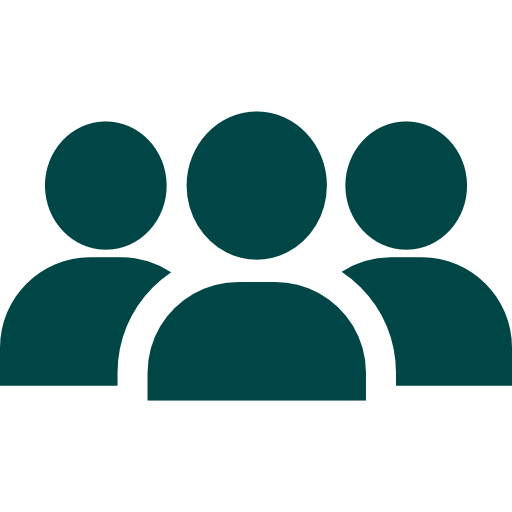
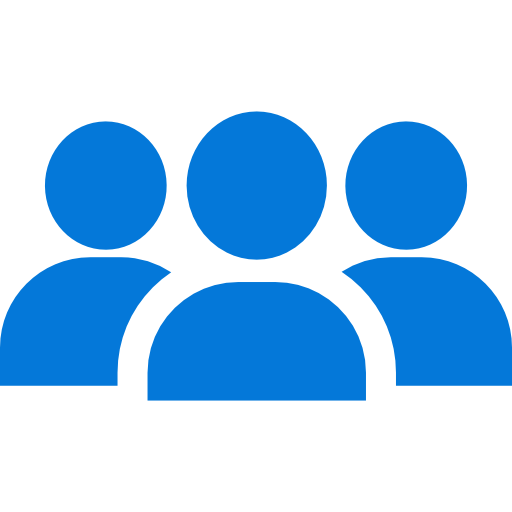
Bootstrap grid nos cards da tela home

diff --git a/pages/polos.html b/pages/polos.html
@@ -8,39 +8,41 @@
     <link href="https://cdn.jsdelivr.net/npm/bootstrap@5.2.2/dist/css/bootstrap.min.css" rel="stylesheet" integrity="sha384-Zenh87qX5JnK2Jl0vWa8Ck2rdkQ2Bzep5IDxbcnCeuOxjzrPF/et3URy9Bv1WTRi" crossorigin="anonymous">
 </head>
 
-<nav class="barraNav navbar navbar-expand-lg bg-light" class="">
-    <div class="container-fluid">
-      <a class="nav-link" href="home.html">Home</a>
-      <button class="navbar-toggler" type="button" data-bs-toggle="collapse" data-bs-target="#navbarSupportedContent" aria-controls="navbarSupportedContent" aria-expanded="false" aria-label="Toggle navigation">
-        <span class="navbar-toggler-icon"></span>
-      </button>
-      <div class="collapse navbar-collapse" id="navbarSupportedContent">
-        <ul class="navbar-nav me-auto mb-2 mb-lg-0">
-          <li class="nav-item">
-            <a class="nav-link" href="alunos.html">Alunos</a>
-          </li>
-          <li class="nav-item">
-            <a class="nav-link" href="funcionarios.html">Funcionários</a>
-          </li>
-          <li class="nav-item">
-            <a class="nav-link" href="polos.html">Polos</a>
-          </li>
-        </ul>
-        <div class="d-flex">
-            <li class="nav-item dropdown">
-                <a class="nav-link dropdown" href="#" role="button" data-bs-toggle="dropdown" aria-expanded="false">
-                  <img src="../imgs/conta/account.png" width="40px" alt="">
-                </a>
-                <ul class="dropdown-menu dropdown-menu-end">
-                  <li><a class="dropdown-item" href="#" style="color: #0478D9;">Ver Perfil</a></li>
-                  <li><hr class="dropdown-divider"></li>
-                  <li><a class="dropdown-item" href="#" style="color: #0478D9;">Sair</a></li>
-                </ul>
+<header>
+    <nav class="barraNav navbar navbar-expand-lg" style="position: fixed;z-index: 1000;width: 100%;">
+        <div class="container-fluid">
+          <a class="nav-link" href="home.html">Home</a>
+          <button class="navbar-toggler" type="button" data-bs-toggle="collapse" data-bs-target="#navbarSupportedContent" aria-controls="navbarSupportedContent" aria-expanded="false" aria-label="Toggle navigation">
+            <span class="navbar-toggler-icon"></span>
+          </button>
+          <div class="collapse navbar-collapse" id="navbarSupportedContent">
+            <ul class="navbar-nav me-auto mb-2 mb-lg-0">
+              <li class="nav-item">
+                <a class="nav-link" href="alunos.html">Alunos</a>
               </li>
-            </div>
-      </div>
-    </div>
-  </nav>
+              <li class="nav-item">
+                <a class="nav-link" href="funcionarios.html">Funcionários</a>
+              </li>
+              <li class="nav-item">
+                <a class="nav-link" href="polos.html">Polos</a>
+              </li>
+            </ul>
+            <div class="d-flex">
+                <li class="nav-item dropdown">
+                    <a class="nav-link dropdown" href="#" role="button" data-bs-toggle="dropdown" aria-expanded="false">
+                      <img src="../imgs/conta/account.png" width="40px" alt="">
+                    </a>
+                    <ul class="dropdown-menu dropdown-menu-end">
+                      <li><a class="dropdown-item" href="#" style="color: #0478D9;">Ver Perfil</a></li>
+                      <li><hr class="dropdown-divider"></li>
+                      <li><a class="dropdown-item" href="#" style="color: #0478D9;">Sair</a></li>
+                    </ul>
+                  </li>
+                </div>
+          </div>
+        </div>
+      </nav>
+</header>
 
 <body>
     <div id="divPolos">

diff --git a/pages/home.html b/pages/home.html
@@ -13,9 +13,9 @@
     <link href="https://fonts.googleapis.com/css2?family=Anton&family=Montserrat&display=swap" rel="stylesheet">
 
 </head>
-<header>
 
-    <nav class="barraNav navbar navbar-expand-lg bg-light">
+<header>
+    <nav class="barraNav navbar navbar-expand-lg" style="position: fixed;z-index: 1000;width: 100%;">
         <div class="container-fluid">
           <a class="nav-link" href="home.html">Home</a>
           <button class="navbar-toggler" type="button" data-bs-toggle="collapse" data-bs-target="#navbarSupportedContent" aria-controls="navbarSupportedContent" aria-expanded="false" aria-label="Toggle navigation">
@@ -48,27 +48,42 @@
           </div>
         </div>
       </nav>
-
 </header>
 
 <body>
-    <div style="position: relative; padding-top: 10px;">
-        <h1 style="font-size: 50px; color: #0478D9;">GCEAD</h1>
-        <div class="cardsHome">
-            <h2>Consultar alunos</h2>
-            <a href="alunos.html"><img src="../imgs/home/alunosIcon.png" alt="alunos" width="250px"></a>
+    
+    <div style="padding-top: 50px;padding-bottom: 50px;">
+        <div class="container text-center">
+            <h1>G-CEad</h1>
+            <div class="row row-cols-3 g-0">
+              <div class="col">
+                <div class="cardsHome">
+                    <h2>Polos</h2>
+                    <a href="polos.html"><img src="../imgs/home/polosAzul.png" alt="polos" width="250px"></a>
+                </div>
+              </div>
+              <div class="col">
+                <div class="cardsHome">
+                    <h2>Consultar alunos</h2>
+                    <a href="alunos.html"><img src="../imgs/home/alunosAzul.png" alt="alunos" width="250px"></a>
+                </div>
+              </div>
+              <div class="col">
+                <div class="cardsHome">
+                    <h2>Consultar funcionários</h2>
+                    <a href="funcionarios.html"><img src="../imgs/home/funcionariosAzul.png" alt="funcionarios" width="250px"></a>
+                </div>
+              </div>
+              </div>
+            </div>
         </div>
-        <div class="cardsHome">
-            <h2>Consultar boletos</h2>
-            <a href="#"><img src="../imgs/home/boletosIcon.png" alt="boletos" width="250px"></a>
-        </div>
+    
+        
+        
+        
+        
     </div>
-    <div style="position: relative; padding-bottom: 50px;">
-        <div class="cardsHome" style="width: 600px">
-            <h2>Gerenciar funcionários</h2>
-            <a href="funcionarios.html"><img src="../imgs/home/funcionariosIcon.png" alt="alunos" width="250px"></a>
-        </div>
-    </div>
+    
     
     <script src="https://cdn.jsdelivr.net/npm/bootstrap@5.2.2/dist/js/bootstrap.bundle.min.js" integrity="sha384-OERcA2EqjJCMA+/3y+gxIOqMEjwtxJY7qPCqsdltbNJuaOe923+mo//f6V8Qbsw3" crossorigin="anonymous"></script>
 

diff --git a/pages/alunos.html b/pages/alunos.html
@@ -16,8 +16,7 @@
 </head>
 
 <header>
-
-    <nav class="barraNav navbar navbar-expand-lg bg-light" class="">
+    <nav class="barraNav navbar navbar-expand-lg" style="position: fixed;z-index: 1000;width: 100%;">
         <div class="container-fluid">
           <a class="nav-link" href="home.html">Home</a>
           <button class="navbar-toggler" type="button" data-bs-toggle="collapse" data-bs-target="#navbarSupportedContent" aria-controls="navbarSupportedContent" aria-expanded="false" aria-label="Toggle navigation">

diff --git a/pages/funcionarios.html b/pages/funcionarios.html
@@ -15,8 +15,7 @@
 </head>
 
 <header>
-
-    <nav class="barraNav navbar navbar-expand-lg bg-light" class="">
+    <nav class="barraNav navbar navbar-expand-lg" style="position: fixed;z-index: 1000;width: 100%;">
         <div class="container-fluid">
           <a class="nav-link" href="home.html">Home</a>
           <button class="navbar-toggler" type="button" data-bs-toggle="collapse" data-bs-target="#navbarSupportedContent" aria-controls="navbarSupportedContent" aria-expanded="false" aria-label="Toggle navigation">

diff --git a/css/style.css b/css/style.css
@@ -4,17 +4,11 @@
 }
 
 /*navbar*/
-header{
-    padding-bottom: 50px;
-}
 .barraNav{
     background-image: linear-gradient(to bottom, #0478D9, #4e9ddd);
     color: white;
     height: 50px;
     font-size: 26px;
-    position: fixed;
-    width: 100%;
-    z-index: 1000;
     font-size: 16px;
 }
 .barraNav li{
